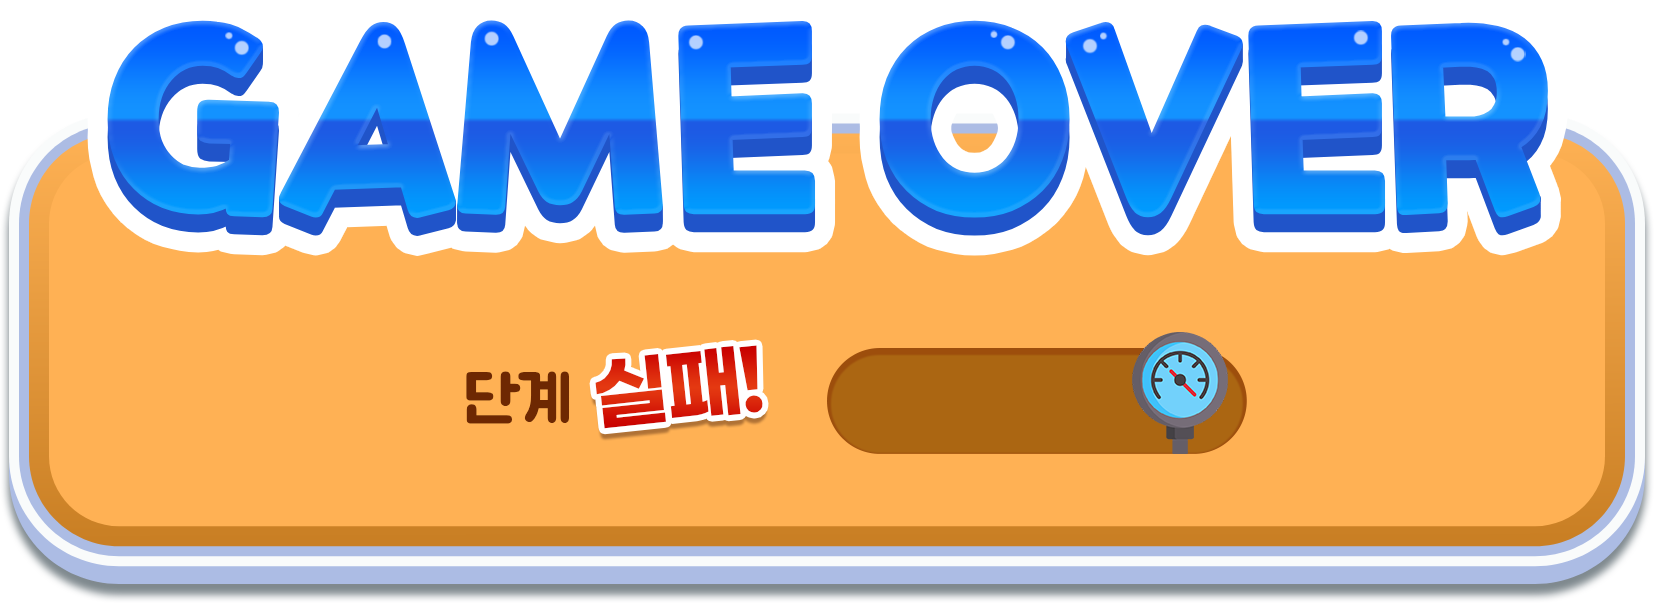
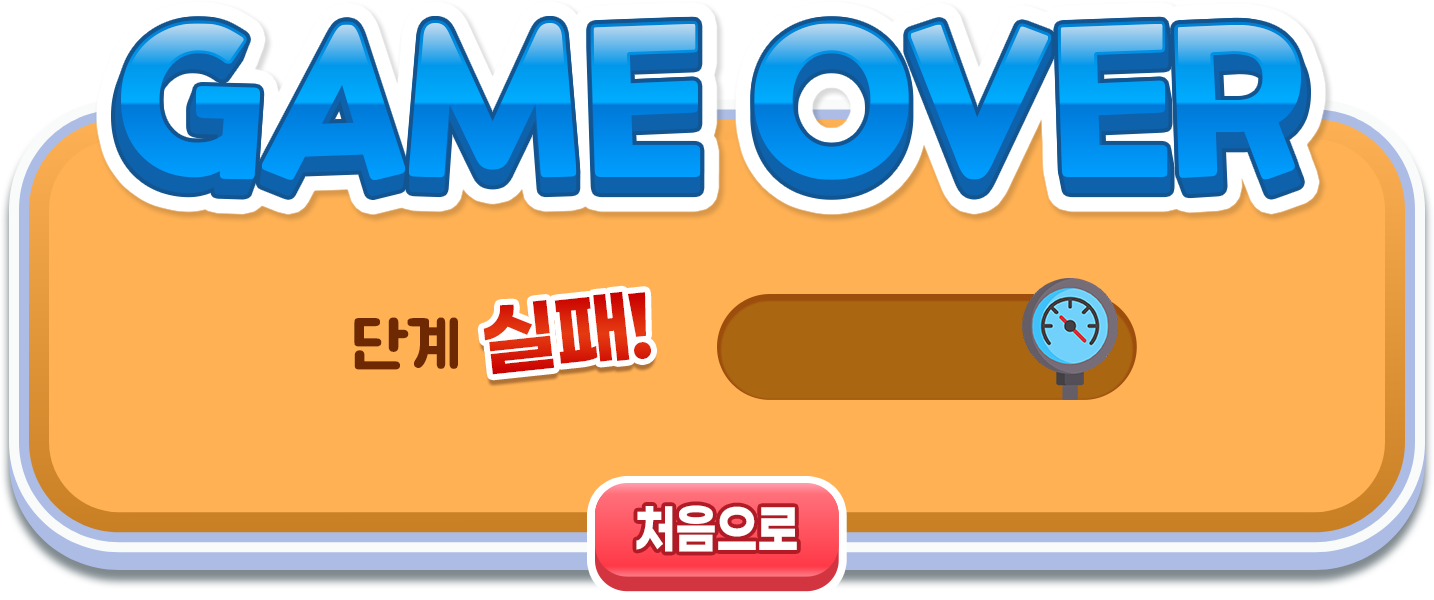
Add files via upload

diff --git a/include/css/common.css b/include/css/common.css
@@ -13,18 +13,65 @@
 .bgmButton.on { background: url(../../assets/bgm_off.png) no-repeat center/contain; } 
 
 #wrap[data-state="playing"] .bgmButton, #wrap[data-state="gameover"] .bgmButton { display: block; } 
+/* 로딩 */
+#wrap[data-state="loadingScene"] .loadingScene { display: block; background: #c9effa; } 
+.loadingContainer { width: 500px; height: 30px; background: #fff; border: 3px solid #94ccdc; padding: 2px; border-radius: 30px; box-sizing: border-box; position: absolute; top: 50%; left: 50%; transform: translate(-50%, -50%); } 
+.loadingBar { height: 100%; width: 0%; background: #94ccdc; border-radius: 30px; } 
+.loadingBoat { position: absolute; top: -70px; left: 0; width: 94px; height: 57px; background: url(../../assets/loading_boat.png) no-repeat 0 0; background-size: 282px 57px; animation: boatMove 0.5s steps(3) infinite; pointer-events: none; transition: left 0.1s linear; } 
+
+@keyframes boatMove { 
+ from { background-position: 0 0; } 
+ to { background-position: -282px 0; } 
+ }
 
 /* 메인 */
 #wrap[data-state="mainScene"] .mainMenuScene { display: block; background: url(../../assets/bg_intro.png) no-repeat center center / 100% 100%; } 
-.mainTitle { position: absolute; top: 23px; left: 311px; width: calc(1050px*0.6667); height: calc(438px*0.6667); background: url(../../assets/title.png) no-repeat center/contain; } 
-.intro { position: absolute; top: 222px; left: 232px; width: calc(1147px*0.6667); height: calc(705px*0.6667); background: url(../../assets/intro.png) no-repeat center/contain; } 
-.introPanda { position: absolute; top: 65px; left: 1047px; width: calc(319px*0.6667); height: calc(449px*0.6667); background: url(../../assets/intro_panda.png) no-repeat center/contain; } 
-.introPenguin { position: absolute; top: 38px; left: 40px; width: calc(243px*0.6667); height: calc(336px*0.6667); background: url(../../assets/intro_penguin.png) no-repeat center/contain; } 
+.mainTitle { position: absolute; top: 23px; left: 311px; width: calc(1050px*0.6667); height: calc(438px*0.6667); background: url(../../assets/title.png) no-repeat center/contain; transform: translateX(150px) scale(0.8); opacity: 0; animation: mainTitle 1.2s ease-out forwards; animation-delay: 2s; } 
+.intro { position: absolute; top: 222px; left: 232px; width: calc(1147px*0.6667); height: calc(705px*0.6667); background: url(../../assets/intro.png) no-repeat center/contain; animation: intro 1.2s ease-out forwards; transform-origin: center; opacity: 0; animation-delay: 1.2s; } 
+.introPanda { position: absolute; top: 65px; left: 1047px; width: calc(319px*0.6667); height: calc(449px*0.6667); background: url(../../assets/intro_panda.png) no-repeat center/contain; animation: introPanda 1.2s ease-out forwards; transform-origin: center; animation-delay: 0.5s; opacity: 0; } 
+.introPenguin { position: absolute; top: 38px; left: 40px; width: calc(243px*0.6667); height: calc(336px*0.6667); background: url(../../assets/intro_penguin.png) no-repeat center/contain; animation: introPenguin 1.2s ease-out forwards; transform-origin: center; opacity: 0; } 
 .buttonBox { display: flex; flex-wrap: wrap; width: calc(319px*0.6667); gap: 3px; position: absolute; top: 484px; left: 1014px; } 
 .startButton { background: url(../../assets/btn_start.png) no-repeat center/contain; width: calc(319px*0.6667); height: calc(136px*0.6667); } 
 .startButton.hover { background: url(../../assets/btn_start_hover.png) no-repeat center/contain; } 
 .howToPlayButton { background: url(../../assets/btn_how.png) no-repeat center/contain; width: calc(319px*0.6667); height: calc(136px*0.6667); } 
 .howToPlayButton.hover { background: url(../../assets/btn_how_hover.png) no-repeat center/contain; } 
+
+@keyframes mainTitle { 
+ 0% { transform: translateY(150px) scale(0.8); } 
+ 60% { transform: translateY(-10px) scale(1.05); opacity: 1; } 
+ 100% { transform: translateY(0) scale(1); opacity: 1; } 
+ }
+
+@keyframes intro { 
+ 0% { transform: translateX(100px) scale(0.6) rotate(0deg); } 
+ 12.5% { transform: translateX(80px) scale(0.7) rotate(3deg); } 
+ 25% { transform: translateX(60px) scale(0.8) rotate(-3deg); } 
+ 37.5% { transform: translateX(40px) scale(0.9) rotate(3deg); } 
+ 50% { transform: translateX(20px) scale(1) rotate(0deg); opacity: 1; } 
+ 75% { transform: translateX(0) scale(1.05) rotate(-2deg); opacity: 1; } 
+ 100% { transform: translateX(0) scale(1) rotate(0deg); opacity: 1; } 
+ }
+
+ @keyframes introPanda { 
+ 0% { transform: translateX(-200px) translateY(-200px) scale(0.6); } 
+ 12.5% { transform: translateX(-160px) translateY(-160px) scale(0.7); } 
+ 25% { transform: translateX(-120px) translateY(-120px) scale(0.8); } 
+ 37.5% { transform: translateX(-80px) translateY(-80px) scale(0.9); } 
+ 50% { transform:translateX(-40px) translateY(-40px) scale(1); opacity: 1; } 
+ 75% { transform:translateX(0px) translateY(0) scale(1.05); opacity: 1; } 
+ 100% { transform:translateX(0px) translateY(0) scale(1); opacity: 1; } 
+ }
+
+ @keyframes introPenguin { 
+ 0% { transform: translateX(200px) translateY(-200px) scale(0.6); } 
+ 12.5% { transform: translateX(160px) translateY(-160px) scale(0.7); } 
+ 25% { transform: translateX(120px) translateY(-120px) scale(0.8) } 
+ 37.5% { transform: translateX(80px) translateY(-80px) scale(0.9); } 
+ 50% { transform: translateX(40px) translateY(-40px) scale(1); opacity: 1; } 
+ 75% { transform: translateX(0px) translateY(0) scale(1.05); opacity: 1; } 
+ 100% { transform: translateX(0px) translateY(0) scale(1); opacity: 1; } 
+ }
+
 
 /* 게임화면 */
 #wrap[data-state="playing"] .gameScene, #wrap[data-state="gameend"] .gameScene, #wrap[data-state="gameover"] .gameScene { display: block; } 
@@ -73,19 +120,20 @@
 /* 퀴즈상점 */
 .quizMarketPop { display: none; position: absolute; background: url(../../assets/store_bg.png) no-repeat center/contain; width: 100%; height: 100%; } 
 .quizMarketPop.on { display: block; } 
-.quizMarketPop .nextStageButton { background: url(../../assets/store_close.png) no-repeat center/contain; position: absolute; right: 17px; top: 14px; width: calc(66px*0.6667); height: calc(66px*0.6667); } 
+.quizMarketPop .nextStageButton { background: url(../../assets/button_next.png) no-repeat center/contain; position: absolute; top: 590px; left: 670px; width: calc(261px*0.6667); height: calc(125px*0.6667); } 
 .storeItemBox { background: url(../../assets/store_itemBox.png) no-repeat center/contain; width: calc(443px*0.6667); height: calc(450px*0.6667); position: absolute; top: 264px; left: 445px; } 
 .boostButton { background: url(../../assets/store_item_speed.png) no-repeat center / contain; width: calc(270px*0.6667); height: calc(270px*0.6667); position: absolute; top: 44px; left: 47px; } 
 .storeItemBox2 { left:794px } 
 .timeUpButton { background: url(../../assets/store_item_time.png) no-repeat center/contain; width: calc(171px*0.6667); height: calc(276px*0.6667); position: absolute; top: 58px; left: 90px; } 
-.storeItemBox.on { pointer-events: none; } 
-.storeItemBox.on div { filter: grayscale(100%); } 
+.storeItemBox.correct, .storeItemBox.incorrect { pointer-events: none; } 
+.storeItemBox.correct::after { content: ''; position: absolute; bottom: 0px; right: 0px; width: calc(245px * 0.6667); height: calc(251px * 0.6667); background: url(../../assets/item_get.png) no-repeat center/contain; } 
+.storeItemBox.incorrect::after { content: ''; position: absolute; top: 50%; left: 50%; transform: translate(-50%, -50%); width: calc(347px * 0.6667); height: calc(204px * 0.6667); background: url(../../assets/item_soldout.png) no-repeat center/contain; } 
 
 /* 퀴즈 영역 */
 .quizPop { display: none; position: absolute; width: 100%; height: 100%; background: rgba(0,0,0,0.7); } 
 .quizPop.on { display: block; } 
 .quizPop .quizPopClose { background: url(../../assets/store_close.png) no-repeat center/contain; width: calc(66px*0.6667); height: calc(66px*0.6667); position: absolute; top: 120px; left: 1090px; } 
-.quizWrap { position: absolute; top: 50%; left: 50%; transform: translate(-50%,-50%); background: #fff; padding: 20px; border: 6px solid #fdd203; border-radius: 10px; text-align: center; width: 960px; height: 450px; font-size: 30px; display: flex; justify-content: center; align-items: center; gap: 30px; font-family: "Cafe24Ssurround";} 
+.quizWrap { position: absolute; top: 50%; left: 50%; transform: translate(-50%,-50%); background: #fff; padding: 20px; border: 6px solid #fdd203; border-radius: 10px; text-align: center; width: 960px; height: 450px; font-size: 30px; display: flex; justify-content: center; align-items: center; gap: 30px; font-family: "Cafe24Ssurround"; } 
 
 /* 퀴즈 */
 .quizQuestion { width: 1040px; height: 100%; display: flex; gap: 10px; align-items: center; justify-content: center; text-align: center; flex-direction: column; } 
@@ -114,17 +162,19 @@
 .result .homeButton { position: absolute; background: url(../../assets/button_home.png) no-repeat center/contain; width: calc(261px*0.6667); height: calc(125px*0.6667); } 
 
 .gameOverPop[data-state="end"] .result { background: url(../../assets/stage_fail.png) no-repeat center/contain; width: calc(1654px*0.6667); height: calc(614px*0.6667); } 
-.gameOverPop[data-state="end"] .result .resultNumber { top: 239px; left: 257px; } 
-.gameOverPop[data-state="end"] .result .resultScore { top: 240px; left: 593px; } 
+.gameOverPop[data-state="end"] .result .resultNumber { top: 209px; left: 254px; } 
+.gameOverPop[data-state="end"] .result .resultScore { top: 209px; left: 596px; } 
 .gameOverPop[data-state="end"] .result .homeButton { display: block; top: 326px; left: 463px; } 
 
-.gameOverPop[data-state="final"] .result, .gameOverPop[data-state="next"] .result { background: url(../../assets/stage_success.png) no-repeat center/contain; width: calc(704px*0.6667); height: calc(862px*0.6667); } 
-.gameOverPop[data-state="final"] .resultNumber, .gameOverPop[data-state="next"] .result .resultNumber { top: 234px; left: 93px; } 
-.gameOverPop[data-state="final"] .resultScore, .gameOverPop[data-state="next"] .result .resultScore { top: 304px; left: 159px; } 
+.gameOverPop[data-state="next"] .result { background: url(../../assets/stage_success.png) no-repeat center/contain; width: calc(704px*0.6667); height: calc(862px*0.6667); } 
+.gameOverPop[data-state="next"] .result .resultNumber { top: 234px; left: 93px; } 
+.gameOverPop[data-state="next"] .result .resultScore { top: 304px; left: 159px; } 
 .gameOverPop[data-state="next"] .result .quizMarketButton { display: block; background: url(../../assets/button_store.png) no-repeat center/contain; width: calc(261px*0.6667); height: calc(125px*0.6667); position: absolute; top: 398px; left: 52px; } 
 .gameOverPop[data-state="next"] .result .nextStageButton { display: block; background: url(../../assets/button_next.png) no-repeat center/contain; width: calc(261px*0.6667); height: calc(125px*0.6667); position: absolute; top: 398px; left: 239px; } 
-
-.gameOverPop[data-state="final"] .homeButton { display: block; top: 398px; left: 144px; } 
+.gameOverPop[data-state="final"] .result { background: url(../../assets/stage_finish.png) no-repeat center/contain; width: calc(1920px*0.6667); height: calc(1080px*0.6667); } 
+.gameOverPop[data-state="final"] .homeButton { background: url(../../assets/button_finish.png) no-repeat center/contain; width: calc(274px*0.6667); height: calc(137px*0.6667); display: block; top: 544px; left: 564px; } 
+.gameOverPop[data-state="final"] .resultNumber { display: none; } 
+.gameOverPop[data-state="final"] .resultScore { top: 468px; left: 441px; color: #0048a2; font-size: 38px; } 
 
 /* 게임방법 */
 .howToPlayPop { display: none; position: absolute; width: 100%; height: 100%; background: rgba(0,0,0,0.7); width: 100%; height: 100%; } 
@@ -152,6 +202,9 @@
 /* 모바일 자이로 */
 .orientationButton { position: absolute; bottom: 30px; right: 80px; width: 24px; height: 24px; background: url(../../assets/bgm.png) no-repeat center/contain; z-index: 1; opacity: 0; pointer-events: none; } 
 .orientationButton.on { background: url(../../assets/bgm_off.png) no-repeat center/contain; } 
+
+#wrap.paused .gameScene::before { content: ""; position: fixed; inset: 0; background: rgba(0, 0, 0, 0.7); z-index: 100; } 
+#wrap.paused .gamepause { top: 50%; left: 50%; transform: translate(-50%, -50%); z-index: 101; width: calc(74px*1); height: calc(74px*1); } 
 
 .gamepause { width: calc(74px*0.6667); height: calc(74px*0.6667); background: url(../../assets/pause.png) no-repeat center/contain; position: absolute; top: 16px; right: 15px; } 
 .gamepause.on { background: url(../../assets/play.png) no-repeat center/contain; } 
